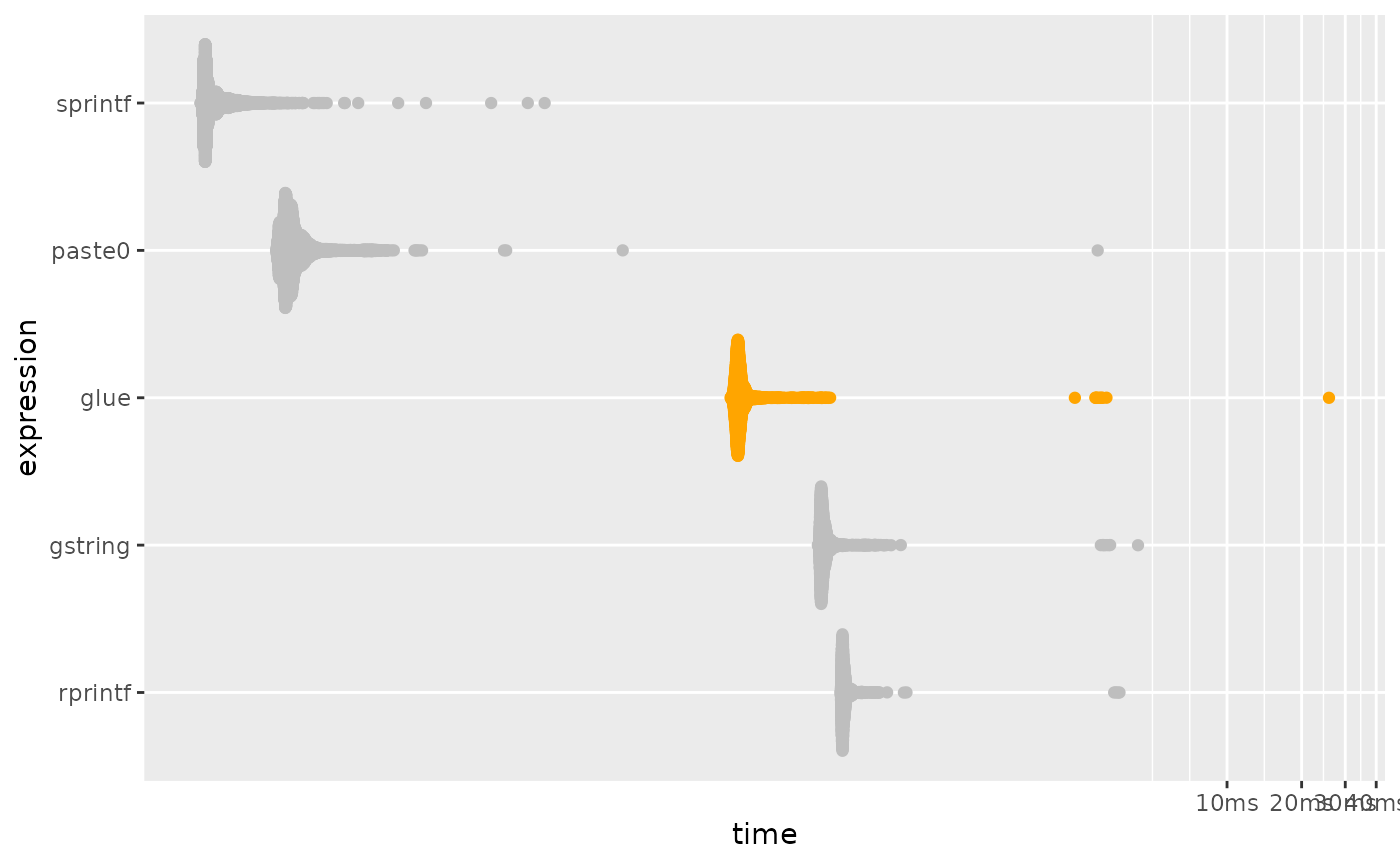
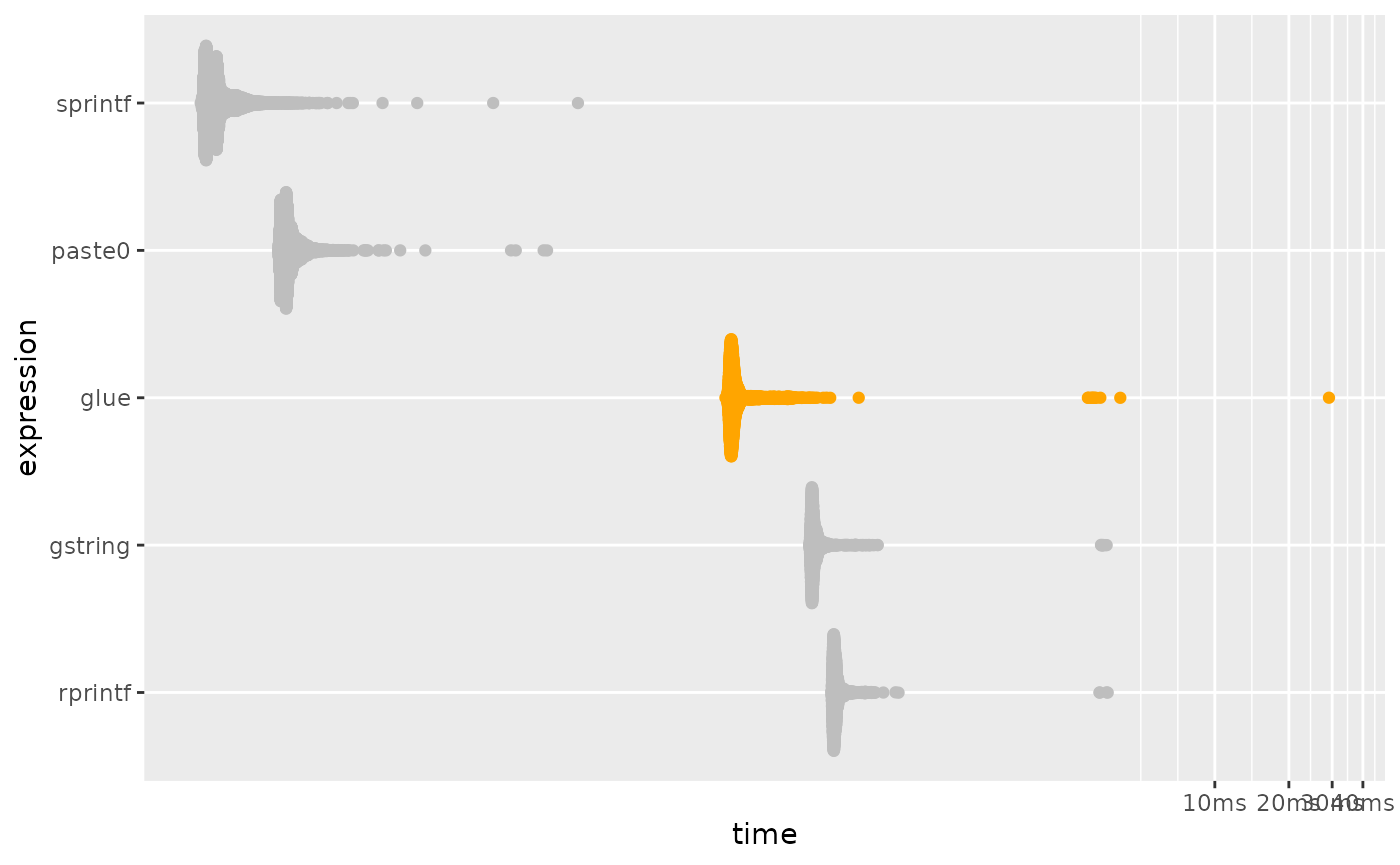
Deploying to gh-pages from @ tidyverse/glue@5e9c87829542e47236467154a3416744f7f2459e 🚀

diff --git a/dev/reference/glue-package.html b/dev/reference/glue-package.html
@@ -1,0 +1,90 @@
+<!DOCTYPE html>
+<!-- Generated by pkgdown: do not edit by hand --><html lang="en"><head><meta http-equiv="Content-Type" content="text/html; charset=UTF-8"><meta charset="utf-8"><meta http-equiv="X-UA-Compatible" content="IE=edge"><meta name="viewport" content="width=device-width, initial-scale=1, shrink-to-fit=no"><title>glue: Interpreted String Literals — glue-package • glue</title><!-- favicons --><link rel="icon" type="image/png" sizes="16x16" href="../favicon-16x16.png"><link rel="icon" type="image/png" sizes="32x32" href="../favicon-32x32.png"><link rel="apple-touch-icon" type="image/png" sizes="180x180" href="../apple-touch-icon.png"><link rel="apple-touch-icon" type="image/png" sizes="120x120" href="../apple-touch-icon-120x120.png"><link rel="apple-touch-icon" type="image/png" sizes="76x76" href="../apple-touch-icon-76x76.png"><link rel="apple-touch-icon" type="image/png" sizes="60x60" href="../apple-touch-icon-60x60.png"><script src="../deps/jquery-3.6.0/jquery-3.6.0.min.js"></script><meta name="viewport" content="width=device-width, initial-scale=1, shrink-to-fit=no"><link href="../deps/bootstrap-5.3.1/bootstrap.min.css" rel="stylesheet"><script src="../deps/bootstrap-5.3.1/bootstrap.bundle.min.js"></script><link href="../deps/Source_Sans_Pro-0.4.9/font.css" rel="stylesheet"><link href="../deps/Source_Code_Pro-0.4.9/font.css" rel="stylesheet"><link href="../deps/font-awesome-6.4.2/css/all.min.css" rel="stylesheet"><link href="../deps/font-awesome-6.4.2/css/v4-shims.min.css" rel="stylesheet"><script src="../deps/headroom-0.11.0/headroom.min.js"></script><script src="../deps/headroom-0.11.0/jQuery.headroom.min.js"></script><script src="../deps/bootstrap-toc-1.0.1/bootstrap-toc.min.js"></script><script src="../deps/clipboard.js-2.0.11/clipboard.min.js"></script><script src="../deps/search-1.0.0/autocomplete.jquery.min.js"></script><script src="../deps/search-1.0.0/fuse.min.js"></script><script src="../deps/search-1.0.0/mark.min.js"></script><!-- pkgdown --><script src="../pkgdown.js"></script><meta property="og:title" content="glue: Interpreted String Literals — glue-package"><meta name="description" content="
+An implementation of interpreted string literals, inspired by Python's Literal String Interpolation https://www.python.org/dev/peps/pep-0498/ and Docstrings https://www.python.org/dev/peps/pep-0257/ and Julia's Triple-Quoted String Literals https://docs.julialang.org/en/v1.3/manual/strings/#Triple-Quoted-String-Literals-1."><meta property="og:description" content="
+An implementation of interpreted string literals, inspired by Python's Literal String Interpolation https://www.python.org/dev/peps/pep-0498/ and Docstrings https://www.python.org/dev/peps/pep-0257/ and Julia's Triple-Quoted String Literals https://docs.julialang.org/en/v1.3/manual/strings/#Triple-Quoted-String-Literals-1."><meta property="og:image" content="https://glue.tidyverse.org/logo.png"><meta name="robots" content="noindex"><!-- Global site tag (gtag.js) - Google Analytics --><script async src="https://www.googletagmanager.com/gtag/js?id=UA-115082821-1"></script><script>
+  window.dataLayer = window.dataLayer || [];
+  function gtag(){dataLayer.push(arguments);}
+  gtag('js', new Date());
+
+  gtag('config', 'UA-115082821-1');
+</script><script defer data-domain="glue.tidyverse.org,all.tidyverse.org" src="https://plausible.io/js/plausible.js"></script></head><body>
+    <a href="#container" class="visually-hidden-focusable">Skip to content</a>
+
+
+    <nav class="navbar navbar-expand-lg fixed-top bg-none" data-bs-theme="light" aria-label="Site navigation"><div class="container">
+
+    <a class="navbar-brand me-2" href="../index.html">glue</a>
+
+    <small class="nav-text text-danger me-auto" data-bs-toggle="tooltip" data-bs-placement="bottom" title="In-development version">1.7.0.9000</small>
+
+
+    <button class="navbar-toggler" type="button" data-bs-toggle="collapse" data-bs-target="#navbar" aria-controls="navbar" aria-expanded="false" aria-label="Toggle navigation">
+      <span class="navbar-toggler-icon"></span>
+    </button>
+
+    <div id="navbar" class="collapse navbar-collapse ms-3">
+      <ul class="navbar-nav me-auto"><li class="active nav-item"><a class="nav-link" href="../reference/index.html">Reference</a></li>
+<li class="nav-item dropdown">
+  <button class="nav-link dropdown-toggle" type="button" id="dropdown-articles" data-bs-toggle="dropdown" aria-expanded="false" aria-haspopup="true">Articles</button>
+  <ul class="dropdown-menu" aria-labelledby="dropdown-articles"><li><a class="dropdown-item" href="../articles/engines.html">glue custom knitr language engines</a></li>
+    <li><a class="dropdown-item" href="../articles/speed.html">Speed of glue</a></li>
+    <li><a class="dropdown-item" href="../articles/transformers.html">Transformers</a></li>
+  </ul></li>
+<li class="nav-item dropdown">
+  <button class="nav-link dropdown-toggle" type="button" id="dropdown-news" data-bs-toggle="dropdown" aria-expanded="false" aria-haspopup="true">News</button>
+  <ul class="dropdown-menu" aria-labelledby="dropdown-news"><li><h6 class="dropdown-header" data-toc-skip>Releases</h6></li>
+    <li><a class="external-link dropdown-item" href="https://www.tidyverse.org/blog/2017/10/glue-1.2.0/">glue 1.2.0</a></li>
+    <li><hr class="dropdown-divider"></li>
+    <li><a class="dropdown-item" href="../news/index.html">Changelog</a></li>
+  </ul></li>
+      </ul><ul class="navbar-nav"><li class="nav-item"><form class="form-inline" role="search">
+ <input class="form-control" type="search" name="search-input" id="search-input" autocomplete="off" aria-label="Search site" placeholder="Search for" data-search-index="../search.json"></form></li>
+<li class="nav-item"><a class="external-link nav-link" href="https://github.com/tidyverse/glue/" aria-label="GitHub"><span class="fa fab fa-github fa-lg"></span></a></li>
+      </ul></div>
+
+
+  </div>
+</nav><div class="container template-reference-topic" id="container">
+<div class="row">
+  <main id="main" class="col-md-9"><div class="page-header">
+      <img src="../logo.png" class="logo" alt=""><h1>glue: Interpreted String Literals</h1>
+      <small class="dont-index">Source: <a href="https://github.com/tidyverse/glue/blob/main/R/glue-package.R" class="external-link"><code>R/glue-package.R</code></a></small>
+      <div class="d-none name"><code>glue-package.Rd</code></div>
+    </div>
+
+    <div class="ref-description section level2">
+    <p></p>
+<p>An implementation of interpreted string literals, inspired by Python's Literal String Interpolation <a href="https://www.python.org/dev/peps/pep-0498/" class="external-link">https://www.python.org/dev/peps/pep-0498/</a> and Docstrings <a href="https://www.python.org/dev/peps/pep-0257/" class="external-link">https://www.python.org/dev/peps/pep-0257/</a> and Julia's Triple-Quoted String Literals <a href="https://docs.julialang.org/en/v1.3/manual/strings/#Triple-Quoted-String-Literals-1" class="external-link">https://docs.julialang.org/en/v1.3/manual/strings/#Triple-Quoted-String-Literals-1</a>.</p>
+    </div>
+
+
+    <div class="section level2">
+    <h2 id="see-also">See also<a class="anchor" aria-label="anchor" href="#see-also"></a></h2>
+    <div class="dont-index"><p>Useful links:</p><ul><li><p><a href="https://glue.tidyverse.org/">https://glue.tidyverse.org/</a></p></li>
+<li><p><a href="https://github.com/tidyverse/glue" class="external-link">https://github.com/tidyverse/glue</a></p></li>
+<li><p>Report bugs at <a href="https://github.com/tidyverse/glue/issues" class="external-link">https://github.com/tidyverse/glue/issues</a></p></li>
+</ul></div>
+    </div>
+    <div class="section level2">
+    <h2 id="author">Author<a class="anchor" aria-label="anchor" href="#author"></a></h2>
+    <p><strong>Maintainer</strong>: Jennifer Bryan <a href="mailto:jenny@posit.co">jenny@posit.co</a> (<a href="https://orcid.org/0000-0002-6983-2759" class="external-link">ORCID</a>)</p>
+<p>Authors:</p><ul><li><p>Jim Hester (<a href="https://orcid.org/0000-0002-2739-7082" class="external-link">ORCID</a>)</p></li>
+</ul><p>Other contributors:</p><ul><li><p>Posit Software, PBC [copyright holder, funder]</p></li>
+</ul></div>
+
+  </main><aside class="col-md-3"><nav id="toc" aria-label="Table of contents"><h2>On this page</h2>
+    </nav></aside></div>
+
+
+   </div>
+  <footer><div class="container">
+  <div class="pkgdown-footer-left">
+  <p>Developed by <a href="https://www.jimhester.com/" class="external-link">Jim Hester</a>, <a href="https://jennybryan.org" class="external-link">Jennifer Bryan</a>, <a href="https://www.posit.co" class="external-link"><img src="https://www.tidyverse.org/posit-logo.svg" alt="Posit" height="16" width="62" style="margin-bottom: 3px;"></a>.</p>
+</div>
+
+<div class="pkgdown-footer-right">
+  <p>Site built with <a href="https://pkgdown.r-lib.org/" class="external-link">pkgdown</a> 2.1.0.</p>
+</div>
+
+  </div></footer></body></html>
+

diff --git a/dev/articles/speed.html b/dev/articles/speed.html
@@ -152,11 +152,11 @@ this benchmark, but is now formally marked as “superseded”, in favor of
 <span><span class="co">#&gt; <span style="color: #949494;"># A tibble: 5 × 6</span></span></span>
 <span><span class="co">#&gt;   expression      min   median `itr/sec` mem_alloc `gc/sec`</span></span>
 <span><span class="co">#&gt;   <span style="color: #949494; font-style: italic;">&lt;bch:expr&gt;</span> <span style="color: #949494; font-style: italic;">&lt;bch:tm&gt;</span> <span style="color: #949494; font-style: italic;">&lt;bch:tm&gt;</span>     <span style="color: #949494; font-style: italic;">&lt;dbl&gt;</span> <span style="color: #949494; font-style: italic;">&lt;bch:byt&gt;</span>    <span style="color: #949494; font-style: italic;">&lt;dbl&gt;</span></span></span>
-<span><span class="co">#&gt; <span style="color: #BCBCBC;">1</span> sprintf    721.08ns 771.02ns  1<span style="text-decoration: underline;">201</span>788.        0B     0   </span></span>
-<span><span class="co">#&gt; <span style="color: #BCBCBC;">2</span> paste0       1.45µs   1.65µs   <span style="text-decoration: underline;">574</span>125.        0B    57.4 </span></span>
-<span><span class="co">#&gt; <span style="color: #BCBCBC;">3</span> glue        99.17µs 106.83µs     <span style="text-decoration: underline;">9</span>116.  140.44KB    24.8 </span></span>
-<span><span class="co">#&gt; <span style="color: #BCBCBC;">4</span> gstring    223.19µs 233.46µs     <span style="text-decoration: underline;">4</span>176.    2.45MB    14.7 </span></span>
-<span><span class="co">#&gt; <span style="color: #BCBCBC;">5</span> rprintf    275.86µs 282.36µs     <span style="text-decoration: underline;">3</span>486.  503.39KB     8.24</span></span>
+<span><span class="co">#&gt; <span style="color: #BCBCBC;">1</span> sprintf    752.16ns 871.02ns  1<span style="text-decoration: underline;">092</span>018.        0B     0   </span></span>
+<span><span class="co">#&gt; <span style="color: #BCBCBC;">2</span> paste0       1.55µs   1.69µs   <span style="text-decoration: underline;">569</span>737.        0B     0   </span></span>
+<span><span class="co">#&gt; <span style="color: #BCBCBC;">3</span> glue       102.33µs 109.53µs     <span style="text-decoration: underline;">8</span>617.  140.44KB    22.7 </span></span>
+<span><span class="co">#&gt; <span style="color: #BCBCBC;">4</span> gstring    224.09µs 232.52µs     <span style="text-decoration: underline;">4</span>199.    2.45MB    16.9 </span></span>
+<span><span class="co">#&gt; <span style="color: #BCBCBC;">5</span> rprintf    276.22µs 285.08µs     <span style="text-decoration: underline;">3</span>441.  503.39KB     8.23</span></span>
 <span></span>
 <span><span class="co"># plotting function defined in a hidden chunk</span></span>
 <span><span class="fu">plot_comparison</span><span class="op">(</span><span class="va">simple</span><span class="op">)</span></span>
@@ -205,11 +205,11 @@ performance is much closer to that of <code><a href="https://rdrr.io/r/base/past
 <span><span class="co">#&gt; <span style="color: #949494;"># A tibble: 5 × 6</span></span></span>
 <span><span class="co">#&gt;   expression      min   median `itr/sec` mem_alloc `gc/sec`</span></span>
 <span><span class="co">#&gt;   <span style="color: #949494; font-style: italic;">&lt;bch:expr&gt;</span> <span style="color: #949494; font-style: italic;">&lt;bch:tm&gt;</span> <span style="color: #949494; font-style: italic;">&lt;bch:tm&gt;</span>     <span style="color: #949494; font-style: italic;">&lt;dbl&gt;</span> <span style="color: #949494; font-style: italic;">&lt;bch:byt&gt;</span>    <span style="color: #949494; font-style: italic;">&lt;dbl&gt;</span></span></span>
-<span><span class="co">#&gt; <span style="color: #BCBCBC;">1</span> paste0       8.18ms    8.2ms     121.    781.3KB     6.35</span></span>
-<span><span class="co">#&gt; <span style="color: #BCBCBC;">2</span> sprintf      8.93ms   8.95ms     112.    781.3KB     6.43</span></span>
-<span><span class="co">#&gt; <span style="color: #BCBCBC;">3</span> gstring     11.01ms  11.06ms      90.2    1.53MB     8.80</span></span>
-<span><span class="co">#&gt; <span style="color: #BCBCBC;">4</span> glue         11.4ms  11.76ms      85.1    2.29MB    11.5 </span></span>
-<span><span class="co">#&gt; <span style="color: #BCBCBC;">5</span> rprintf     27.43ms  27.58ms      36.2    3.05MB    10.3</span></span>
+<span><span class="co">#&gt; <span style="color: #BCBCBC;">1</span> paste0       8.17ms   8.21ms     121.    781.3KB     4.19</span></span>
+<span><span class="co">#&gt; <span style="color: #BCBCBC;">2</span> sprintf      8.95ms   8.98ms     111.    781.3KB     6.41</span></span>
+<span><span class="co">#&gt; <span style="color: #BCBCBC;">3</span> gstring     11.11ms  11.22ms      84.1    1.53MB     6.47</span></span>
+<span><span class="co">#&gt; <span style="color: #BCBCBC;">4</span> glue        11.88ms  12.23ms      81.4    2.29MB     9.05</span></span>
+<span><span class="co">#&gt; <span style="color: #BCBCBC;">5</span> rprintf     27.57ms  27.65ms      36.1    3.05MB     7.22</span></span>
 <span></span>
 <span><span class="co"># plotting function defined in a hidden chunk</span></span>
 <span><span class="fu">plot_comparison</span><span class="op">(</span><span class="va">vectorized</span><span class="op">)</span></span></code></pre></div>
